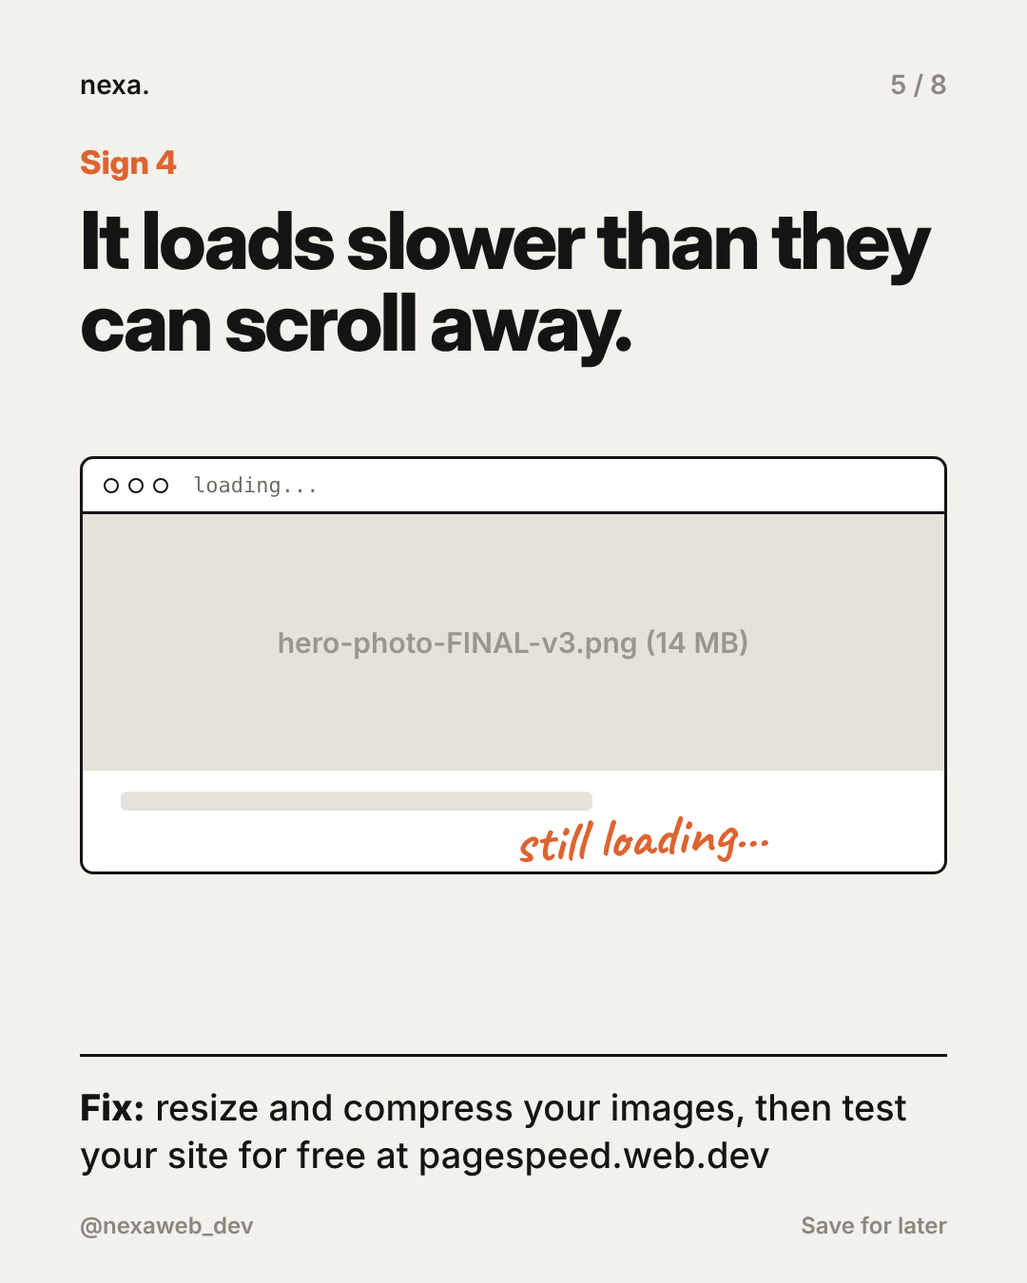
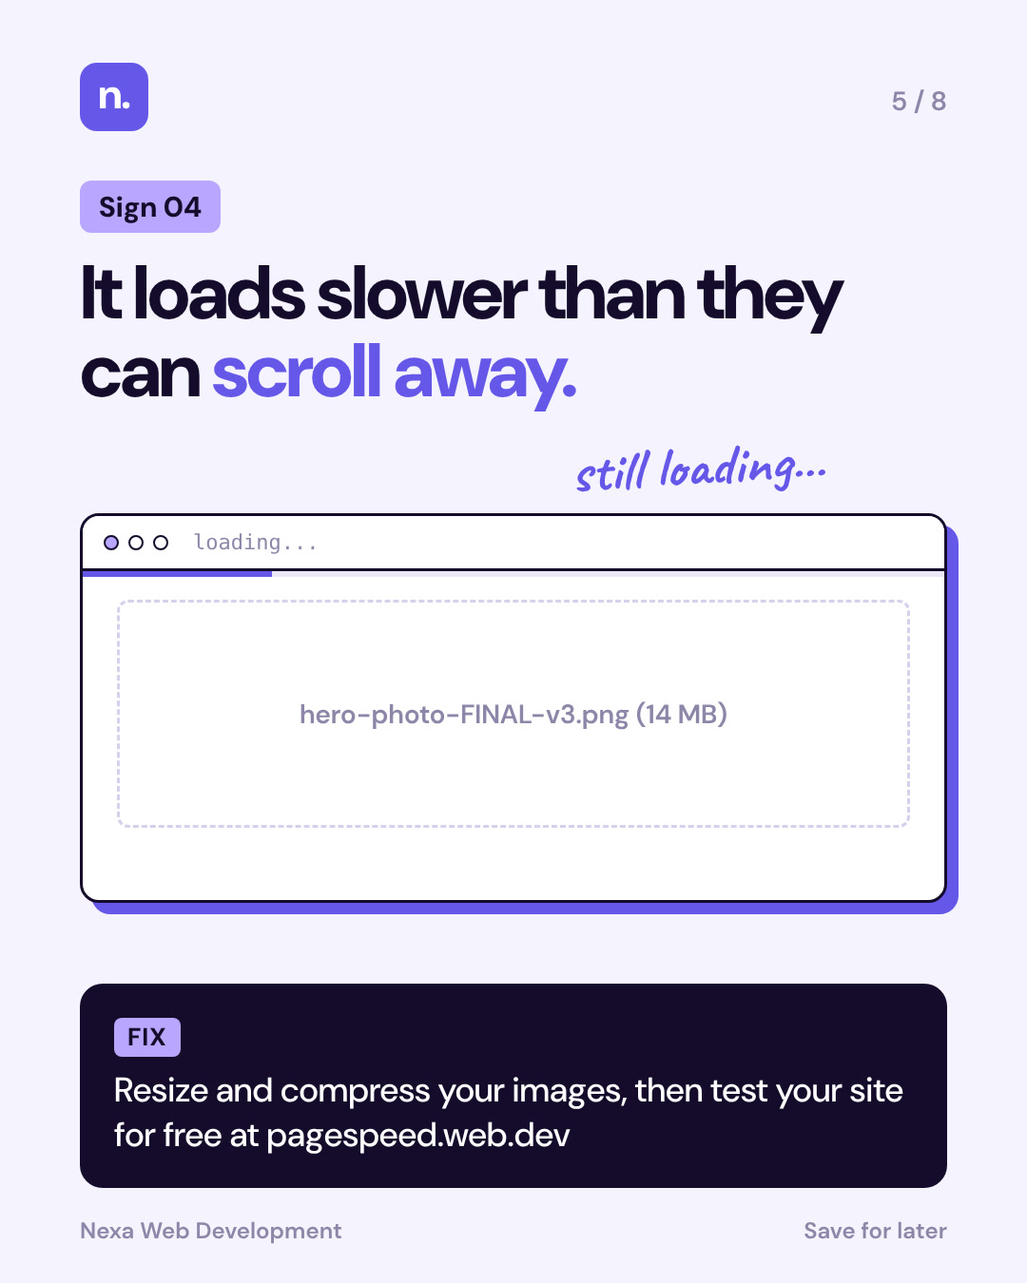
Nexa carousel v3: brand colours (indigo/lavender/navy), DM Sans, richer mockups
Claude-Session: https://claude.ai/code/session_01MAv6C5ZgnW2b7gxvkk4iYD

diff --git a/nexa/images/website-costing-customers-6-signs/src/slides.html b/nexa/images/website-costing-customers-6-signs/src/slides.html
@@ -1,137 +1,162 @@
 <!doctype html><html><head><meta charset="utf-8"><style>
 @font-face{font-family:Hand;src:url(/home/claude/reels-hosting/pipeline/fonts/Caveat.ttf)}
+@font-face{font-family:DMS;src:url("/usr/share/fonts/truetype/google-fonts/ofl/dmsans/DMSans[opsz,wght].ttf");font-weight:100 1000}
+:root{--ind:#6557E8;--lav:#B9A6FF;--navy:#150C2B;--paper:#F5F3FD;--soft:#E6E0FF;--line:#D6D0EC;--mute:#8E86A8}
 *{box-sizing:border-box;margin:0;padding:0}
-body{font-family:'Inter','Inter Display',sans-serif;color:#141414;background:#999}
-.s{position:relative;width:1080px;height:1350px;overflow:hidden;background:#F3F1EC}
-.top{position:absolute;left:84px;right:84px;top:72px;display:flex;justify-content:space-between;font-size:28px;font-weight:600;color:#141414}
-.top span:last-child{color:#8b8780}
-.num{position:absolute;left:84px;top:150px;font-family:'Inter Display';font-weight:800;font-size:34px;color:#DD6431}
-.h{position:absolute;left:84px;right:84px;font-family:'Inter Display';font-weight:800;letter-spacing:-.035em;line-height:1.02}
-.win{position:absolute;left:84px;right:84px;background:#fff;border:3px solid #141414;border-radius:14px;overflow:hidden}
-.wbar{height:58px;border-bottom:3px solid #141414;display:flex;align-items:center;padding:0 22px;gap:10px}
-.wbar i{width:16px;height:16px;border-radius:50%;border:2.5px solid #141414;display:inline-block}
-.wbar span{margin-left:16px;font-family:'DejaVu Sans Mono',monospace;font-size:22px;color:#6f6b64}
-.hand{font-family:Hand;color:#DD6431;font-weight:700;position:absolute;line-height:1}
-svg.mk{position:absolute;overflow:visible;pointer-events:none}
-.fix{position:absolute;left:84px;right:84px;bottom:110px;border-top:3px solid #141414;padding-top:28px;font-size:38px;line-height:1.32;font-weight:500}
-.fix b{font-weight:800}
-.foot{position:absolute;left:84px;right:84px;bottom:46px;display:flex;justify-content:space-between;font-size:24px;color:#8b8780;font-weight:600}
-.grey{color:#8b8780}
-.field{border:2px solid #cfcac2;border-radius:8px;padding:12px 16px;font-size:24px;color:#9a958d}
-.pill{border:2px solid #cfcac2;border-radius:8px;padding:10px 20px;font-size:26px;font-weight:600;color:#8b8780;display:inline-block}
+body{font-family:DMS,sans-serif;color:var(--navy);background:#999}
+.s{position:relative;width:1080px;height:1350px;overflow:hidden;background:var(--paper)}
+.s.dark{background:var(--navy);color:#fff}
+.logo{position:absolute;left:84px;top:66px;width:72px;height:72px;border-radius:18px;background:var(--ind);color:#fff;font-weight:800;font-size:44px;display:flex;align-items:center;justify-content:center;letter-spacing:-1px;padding-bottom:6px}
+.pg{position:absolute;right:84px;top:88px;font-size:28px;font-weight:600;color:var(--mute)}
+.dark .pg{color:#8B80B8}
+.tagl{display:inline-block;background:var(--lav);color:var(--navy);font-weight:800;font-size:30px;padding:8px 20px;border-radius:12px}
+.lbl{position:absolute;left:84px;top:190px}
+.h{position:absolute;left:84px;right:84px;font-weight:800;letter-spacing:-.035em;line-height:1.02}
+.h em{font-style:normal;color:var(--ind)}
+.dark .h em{color:var(--lav)}
+.win{position:absolute;left:84px;right:84px;background:#fff;border:3px solid var(--navy);border-radius:20px;overflow:hidden;box-shadow:12px 12px 0 var(--ind)}
+.wbar{height:58px;border-bottom:3px solid var(--navy);display:flex;align-items:center;padding:0 22px;gap:10px;background:#fff}
+.wbar i{width:16px;height:16px;border-radius:50%;border:2.5px solid var(--navy);display:inline-block}
+.wbar i:first-child{background:var(--lav)}
+.wbar span{margin-left:16px;font-family:'DejaVu Sans Mono',monospace;font-size:22px;color:var(--mute)}
+.hand{font-family:Hand;color:var(--ind);font-weight:700;position:absolute;line-height:1}
+.dark .hand{color:var(--lav)}
+svg.mk{position:absolute;overflow:visible}
+.fix{position:absolute;left:84px;right:84px;bottom:100px;background:var(--navy);color:#fff;border-radius:24px;padding:30px 36px 32px;font-size:36px;line-height:1.3;font-weight:500}
+.fix b{display:inline-block;background:var(--lav);color:var(--navy);font-weight:800;font-size:26px;padding:4px 14px;border-radius:8px;margin-bottom:12px;letter-spacing:1px}
+.foot{position:absolute;left:84px;right:84px;bottom:40px;display:flex;justify-content:space-between;font-size:24px;color:var(--mute);font-weight:600}
+.field{border:2px solid var(--line);border-radius:10px;padding:12px 16px;font-size:24px;color:var(--mute)}
+.pill{border:2px solid var(--line);border-radius:10px;padding:10px 20px;font-size:26px;font-weight:600;color:var(--mute);display:inline-block}
+.bar{height:18px;background:#ECE8F7;border-radius:6px}
+.img{background:var(--soft);border-radius:12px;position:relative;overflow:hidden}
+.img:before{content:"";position:absolute;left:12%;bottom:-30%;width:60%;height:80%;background:var(--lav);border-radius:50% 50% 0 0;opacity:.8}
+.img:after{content:"";position:absolute;right:16%;top:20%;width:46px;height:46px;border-radius:50%;background:#fff}
 </style></head><body>
 
-<div class="s" id="s1">
- <div class="top"><span>nexa.</span><span>@nexaweb_dev</span></div>
- <div class="h" style="top:260px;font-size:136px">Your website is losing you customers.</div>
- <div class="hand" style="left:90px;top:720px;font-size:96px;transform:rotate(-3deg)">and it won't tell you.</div>
- 
- <div style="position:absolute;left:84px;top:900px;font-size:44px;font-weight:500;line-height:1.35;width:820px">6 quiet signs to check today.<br><span class="grey">Most take 5 minutes to fix.</span></div>
- <div class="foot"><span>Website check</span><span>Swipe</span></div>
+<!-- 1 HOOK (dark) -->
+<div class="s dark" id="s1">
+ <div class="logo">n.</div><div class="pg">@nexaweb_dev</div>
+ <div class="h" style="top:230px;font-size:132px">Your website is losing you <em>customers.</em></div>
+ <div class="hand" style="left:90px;top:680px;font-size:92px;transform:rotate(-3deg)">and it won't tell you.</div>
+ <div class="win" style="left:430px;right:auto;width:600px;top:860px;height:330px;transform:rotate(4deg);box-shadow:12px 12px 0 var(--lav)">
+  <div class="wbar"><i></i><i></i><i></i><span>yoursite.example</span></div>
+  <div style="padding:26px 30px;color:var(--navy)"><div class="bar" style="width:60%"></div><div class="img" style="height:120px;margin-top:20px"></div><div class="bar" style="width:80%;margin-top:20px"></div></div></div>
+ <div style="position:absolute;left:84px;top:900px;font-size:40px;font-weight:600;line-height:1.35;width:330px">6 quiet signs to check today.</div>
+ <svg class="mk" style="left:84px;top:1090px" width="300" height="80"><path d="M6 40 C 80 30, 170 50, 250 38 M226 18 L 262 38 L 230 62" stroke="#B9A6FF" stroke-width="6" fill="none" stroke-linecap="round" stroke-linejoin="round"/></svg>
+ <div class="hand" style="left:90px;top:1180px;font-size:56px">swipe</div>
 </div>
 
+<!-- 2 -->
 <div class="s" id="s2">
- <div class="top"><span>nexa.</span><span>2 / 8</span></div>
- <div class="num">Sign 1</div>
- <div class="h" style="top:210px;font-size:84px">A stranger can't tell what you do in 5 seconds.</div>
- <div class="win" style="top:540px;height:420px"><div class="wbar"><i></i><i></i><i></i><span>yourplumber.example</span></div>
-  <div style="padding:40px 44px"><div style="font-size:24px;letter-spacing:3px;color:#9a958d;font-weight:700">HOME &nbsp; ABOUT &nbsp; SERVICES &nbsp; CONTACT</div>
-  <div style="font-family:'Inter Display';font-weight:700;font-size:70px;margin-top:44px;letter-spacing:-.02em">Welcome to our website!</div>
-  <div style="font-size:28px;color:#9a958d;margin-top:18px">We are passionate about excellence and quality.</div></div></div>
- <svg class="mk" id="c2" style="left:100px;top:660px" width="860" height="160"></svg>
- <div class="hand" style="left:470px;top:975px;font-size:62px;transform:rotate(-4deg)">ok but what do you do?</div>
- <div class="fix"><b>Fix:</b> say what you do, who it's for and where. "Blocked drain? Fixed today in Parramatta."</div>
- <div class="foot"><span>@nexaweb_dev</span><span>Save for later</span></div>
+ <div class="logo">n.</div><div class="pg">2 / 8</div>
+ <div class="lbl"><span class="tagl">Sign 01</span></div>
+ <div class="h" style="top:268px;font-size:80px">A stranger can't tell <em>what you do</em> in 5 seconds.</div>
+ <div class="win" style="top:560px;height:390px"><div class="wbar"><i></i><i></i><i></i><span>yourplumber.example</span></div>
+  <div style="padding:30px 40px;display:flex;gap:30px"><div style="flex:1"><div style="font-size:20px;letter-spacing:3px;color:var(--mute);font-weight:700">HOME &nbsp; ABOUT &nbsp; CONTACT</div>
+  <div style="font-weight:800;font-size:56px;margin-top:30px;letter-spacing:-.02em;line-height:1.05">Welcome to our website!</div>
+  <div style="font-size:24px;color:var(--mute);margin-top:14px">We are passionate about excellence.</div></div>
+  <div class="img" style="width:250px;height:250px"></div></div></div>
+ <svg class="mk" id="c2" style="left:96px;top:676px" width="590" height="170"></svg>
+ <div class="hand" style="left:440px;top:478px;font-size:56px;white-space:nowrap;transform:rotate(-2deg)">ok... but what do you do?</div>
+ <div class="fix"><b>FIX</b><br>Say what you do, who it's for and where. "Blocked drain? Fixed today in Parramatta."</div>
+ <div class="foot"><span>Nexa Web Development</span><span>Save for later</span></div>
 </div>
 
+<!-- 3 -->
 <div class="s" id="s3">
- <div class="top"><span>nexa.</span><span>3 / 8</span></div>
- <div class="num">Sign 2</div>
- <div class="h" style="top:210px;font-size:84px">Your phone number can't be tapped on mobile.</div>
- <div class="win" style="left:120px;right:auto;width:480px;top:520px;height:470px;border-radius:44px">
-  <div style="padding:60px 40px"><div style="height:20px;width:70%;background:#e6e2db;border-radius:6px"></div><div style="height:20px;width:90%;background:#e6e2db;border-radius:6px;margin-top:14px"></div>
-  <div style="font-size:30px;font-weight:600;margin-top:46px">Call us today!</div>
-  <div style="font-size:40px;font-weight:500;margin-top:8px;color:#6f6b64">02 5550 4321</div>
-  <div style="height:20px;width:80%;background:#e6e2db;border-radius:6px;margin-top:46px"></div><div style="height:20px;width:60%;background:#e6e2db;border-radius:6px;margin-top:14px"></div></div></div>
- <svg class="mk" id="c3" style="left:125px;top:722px" width="400" height="90"></svg>
- <div class="hand" style="left:640px;top:690px;font-size:60px;transform:rotate(-4deg);width:380px">&larr; not a link.<br>copy, paste,<br>give up</div>
- <div class="fix"><b>Fix:</b> make every number a tap to call link, plus a call button that stays on screen.</div>
- <div class="foot"><span>@nexaweb_dev</span><span>Save for later</span></div>
+ <div class="logo">n.</div><div class="pg">3 / 8</div>
+ <div class="lbl"><span class="tagl">Sign 02</span></div>
+ <div class="h" style="top:268px;font-size:80px">Your phone number <em>can't be tapped</em> on mobile.</div>
+ <div class="win" style="left:130px;right:auto;width:440px;top:530px;height:440px;border-radius:48px">
+  <div style="padding:46px 36px"><div class="bar" style="width:55%;margin:0 auto 26px;height:12px"></div><div class="img" style="height:110px"></div>
+  <div style="font-size:28px;font-weight:700;margin-top:26px">Call us today!</div>
+  <div style="font-size:38px;font-weight:500;margin-top:6px;color:#5d5675">02 5550 4321</div>
+  <div class="bar" style="width:80%;margin-top:26px"></div></div></div>
+ <svg class="mk" id="c3" style="left:140px;top:782px" width="380" height="84"></svg>
+ <div class="hand" style="left:640px;top:740px;font-size:58px;transform:rotate(-4deg);width:380px">&larr; not a link.<br>copy, paste,<br>give up</div>
+ <div class="fix"><b>FIX</b><br>Make every number a tap to call link, plus a call button that stays on screen.</div>
+ <div class="foot"><span>Nexa Web Development</span><span>Save for later</span></div>
 </div>
 
+<!-- 4 -->
 <div class="s" id="s4">
- <div class="top"><span>nexa.</span><span>4 / 8</span></div>
- <div class="num">Sign 3</div>
- <div class="h" style="top:210px;font-size:84px">Your contact form asks for their life story.</div>
- <div class="win" style="top:540px;height:420px"><div class="wbar"><i></i><i></i><i></i><span>Get in touch</span></div>
-  <div style="padding:30px 40px;display:grid;grid-template-columns:1fr 1fr;gap:14px">
+ <div class="logo">n.</div><div class="pg">4 / 8</div>
+ <div class="lbl"><span class="tagl">Sign 03</span></div>
+ <div class="h" style="top:268px;font-size:80px">Your contact form asks for their <em>life story.</em></div>
+ <div class="win" style="top:540px;height:410px"><div class="wbar"><i></i><i></i><i></i><span>Get in touch</span></div>
+  <div style="padding:28px 36px;display:grid;grid-template-columns:1fr 1fr;gap:14px">
   <div class="field">Name *</div><div class="field">Company *</div><div class="field">Job title *</div><div class="field">Budget *</div>
   <div class="field">Street address *</div><div class="field">Postcode *</div><div class="field">How did you hear? *</div><div class="field">Fax *</div></div></div>
- <svg class="mk" id="c4" style="left:535px;top:824px" width="420" height="84"></svg>
- <div class="hand" style="left:760px;top:965px;font-size:64px;transform:rotate(-3deg)">fax??</div>
- <div class="fix"><b>Fix:</b> ask only what you need to reply. Name, phone or email, message. Get the rest on the call.</div>
- <div class="foot"><span>@nexaweb_dev</span><span>Save for later</span></div>
+ <svg class="mk" id="c4" style="left:535px;top:822px" width="420" height="84"></svg>
+ <div class="hand" style="left:770px;top:452px;font-size:64px;transform:rotate(-5deg)">fax??</div>
+ <div class="fix"><b>FIX</b><br>Ask only what you need to reply. Name, phone or email, message. Get the rest on the call.</div>
+ <div class="foot"><span>Nexa Web Development</span><span>Save for later</span></div>
 </div>
 
+<!-- 5 -->
 <div class="s" id="s5">
- <div class="top"><span>nexa.</span><span>5 / 8</span></div>
- <div class="num">Sign 4</div>
- <div class="h" style="top:210px;font-size:84px">It loads slower than they can scroll away.</div>
- <div class="win" style="top:480px;height:440px"><div class="wbar"><i></i><i></i><i></i><span>loading...</span></div>
-  <div style="height:270px;background:#e6e2db;display:flex;align-items:center;justify-content:center;font-size:30px;color:#9a958d;font-weight:600">hero-photo-FINAL-v3.png (14 MB)</div>
-  <div style="padding:22px 40px"><div style="height:20px;width:60%;background:#e6e2db;border-radius:6px"></div></div></div>
- <div class="hand" style="left:540px;top:850px;font-size:60px;transform:rotate(-3deg)">still loading...</div>
- <div class="fix"><b>Fix:</b> resize and compress your images, then test your site for free at pagespeed.web.dev</div>
- <div class="foot"><span>@nexaweb_dev</span><span>Save for later</span></div>
+ <div class="logo">n.</div><div class="pg">5 / 8</div>
+ <div class="lbl"><span class="tagl">Sign 04</span></div>
+ <div class="h" style="top:268px;font-size:80px">It loads slower than they can <em>scroll away.</em></div>
+ <div class="win" style="top:540px;height:410px"><div class="wbar"><i></i><i></i><i></i><span>loading...</span></div>
+  <div style="height:6px;background:#ECE8F7"><div style="width:22%;height:100%;background:var(--ind)"></div></div>
+  <div style="height:240px;margin:24px 36px 0;border:3px dashed var(--line);border-radius:12px;display:flex;align-items:center;justify-content:center;font-size:28px;color:var(--mute);font-weight:600">hero-photo-FINAL-v3.png (14 MB)</div></div>
+ <div class="hand" style="left:600px;top:460px;font-size:60px;transform:rotate(-3deg)">still loading...</div>
+ <div class="fix"><b>FIX</b><br>Resize and compress your images, then test your site for free at pagespeed.web.dev</div>
+ <div class="foot"><span>Nexa Web Development</span><span>Save for later</span></div>
 </div>
 
+<!-- 6 -->
 <div class="s" id="s6">
- <div class="top"><span>nexa.</span><span>6 / 8</span></div>
- <div class="num">Sign 5</div>
- <div class="h" style="top:210px;font-size:84px">They have to hunt for the next step.</div>
- <div class="win" style="top:480px;height:420px"><div class="wbar"><i></i><i></i><i></i><span>yourbusiness.example</span></div>
-  <div style="padding:40px 44px;display:flex;flex-wrap:wrap;gap:16px">
-  <span class="pill">Learn more</span><span class="pill">Our story</span><span class="pill">Explore</span><span class="pill">Discover</span><span class="pill">Resources</span><span class="pill">Gallery</span><span class="pill">Find out more</span><span class="pill">Blog</span></div></div>
- <svg class="mk" id="c6" style="left:100px;top:540px" width="880" height="250"></svg>
- <div class="hand" style="left:520px;top:830px;font-size:58px;transform:rotate(-3deg)">so... how do I book?</div>
- <div class="fix"><b>Fix:</b> one main button ("Get a quote") near the top, repeated as they scroll. Same words every time.</div>
- <div class="foot"><span>@nexaweb_dev</span><span>Save for later</span></div>
+ <div class="logo">n.</div><div class="pg">6 / 8</div>
+ <div class="lbl"><span class="tagl">Sign 05</span></div>
+ <div class="h" style="top:268px;font-size:80px">They have to <em>hunt</em> for the next step.</div>
+ <div class="win" style="top:480px;height:440px"><div class="wbar"><i></i><i></i><i></i><span>yourbusiness.example</span></div>
+  <div style="padding:34px 40px;display:flex;flex-wrap:wrap;gap:16px">
+  <span class="pill">Learn more</span><span class="pill">Our story</span><span class="pill">Explore</span><span class="pill">Discover</span><span class="pill">Resources</span><span class="pill">Gallery</span><span class="pill">Find out more</span><span class="pill">Blog</span></div>
+  <div class="img" style="height:120px;margin:6px 40px 0"></div></div>
+ <svg class="mk" id="c6" style="left:88px;top:540px" width="904" height="200"></svg>
+ <div class="hand" style="left:520px;top:940px;font-size:58px;transform:rotate(-3deg)">so... how do I book?</div>
+ <div class="fix"><b>FIX</b><br>One main button ("Get a quote") near the top, repeated as they scroll. Same words every time.</div>
+ <div class="foot"><span>Nexa Web Development</span><span>Save for later</span></div>
 </div>
 
+<!-- 7 -->
 <div class="s" id="s7">
- <div class="top"><span>nexa.</span><span>7 / 8</span></div>
- <div class="num">Sign 6</div>
- <div class="h" style="top:210px;font-size:84px">Your site looks like nobody's home.</div>
+ <div class="logo">n.</div><div class="pg">7 / 8</div>
+ <div class="lbl"><span class="tagl">Sign 06</span></div>
+ <div class="h" style="top:268px;font-size:80px">Your site looks like <em>nobody's home.</em></div>
  <div class="win" style="top:480px;height:420px"><div class="wbar"><i></i><i></i><i></i><span>yourbusiness.example/news</span></div>
-  <div style="padding:36px 44px"><div style="font-size:26px;color:#9a958d;font-weight:600">Posted March 2019</div>
-  <div style="font-size:44px;font-weight:700;margin-top:10px">Exciting things coming soon!</div>
-  <div style="height:2px;background:#e6e2db;margin:60px 0 24px"></div>
-  <div style="font-size:24px;color:#9a958d">© 2019 Example Co &nbsp;·&nbsp; Opening hours: TBC</div></div></div>
- <svg class="mk" id="c7" style="left:100px;top:590px" width="720" height="100"></svg>
- <div class="hand" style="left:560px;top:820px;font-size:58px;transform:rotate(-3deg)">are they still open?</div>
- <div class="fix"><b>Fix:</b> update the footer year, hours and old posts, or delete them. Stale looks closed.</div>
- <div class="foot"><span>@nexaweb_dev</span><span>Save for later</span></div>
+  <div style="padding:34px 40px"><div style="font-size:24px;color:var(--mute);font-weight:600">Posted March 2019</div>
+  <div style="font-size:44px;font-weight:800;margin-top:8px;letter-spacing:-.01em">Exciting things coming soon!</div>
+  <div class="bar" style="width:85%;margin-top:22px"></div><div class="bar" style="width:60%;margin-top:12px"></div>
+  <div style="height:2px;background:#ECE8F7;margin:40px 0 20px"></div>
+  <div style="font-size:24px;color:var(--mute)">© 2019 Example Co &nbsp;·&nbsp; Opening hours: TBC</div></div></div>
+ <svg class="mk" id="c7" style="left:100px;top:586px" width="720" height="100"></svg>
+ <div class="hand" style="left:540px;top:930px;font-size:58px;transform:rotate(-3deg)">are they still open?</div>
+ <div class="fix"><b>FIX</b><br>Update the footer year, hours and old posts, or delete them. Stale looks closed.</div>
+ <div class="foot"><span>Nexa Web Development</span><span>Save for later</span></div>
 </div>
 
-<div class="s" id="s8">
- <div class="top"><span>nexa.</span><span>8 / 8</span></div>
- <div class="h" style="top:170px;font-size:92px">How many did your site fail?</div>
- <div style="position:absolute;left:84px;right:84px;top:420px;font-size:42px;font-weight:500;line-height:1">
-  <div style="border-top:3px solid #141414;padding:26px 0;display:flex;gap:26px"><span class="grey">1</span>Clear "what we do" headline</div>
-  <div style="border-top:2px solid #cfcac2;padding:26px 0;display:flex;gap:26px"><span class="grey">2</span>Tap to call number</div>
-  <div style="border-top:2px solid #cfcac2;padding:26px 0;display:flex;gap:26px"><span class="grey">3</span>Short contact form</div>
-  <div style="border-top:2px solid #cfcac2;padding:26px 0;display:flex;gap:26px"><span class="grey">4</span>Loads fast</div>
-  <div style="border-top:2px solid #cfcac2;padding:26px 0;display:flex;gap:26px"><span class="grey">5</span>One obvious button</div>
-  <div style="border-top:2px solid #cfcac2;border-bottom:3px solid #141414;padding:26px 0;display:flex;gap:26px"><span class="grey">6</span>Nothing out of date</div></div>
- <div class="hand" style="left:84px;top:1060px;font-size:72px;transform:rotate(-2deg)">save this, check yours tonight</div>
- <div style="position:absolute;left:84px;top:1170px;font-size:38px;font-weight:700">Follow @nexaweb_dev for more.</div>
+<!-- 8 CTA (dark) -->
+<div class="s dark" id="s8">
+ <div class="logo">n.</div><div class="pg">8 / 8</div>
+ <div class="h" style="top:200px;font-size:92px">How many did your site <em>fail?</em></div>
+ <div style="position:absolute;left:84px;right:84px;top:440px;font-size:40px;font-weight:600">
+  <div style="display:flex;align-items:center;gap:24px;padding:20px 0;border-bottom:2px solid #2E2450"><span style="width:52px;height:52px;border-radius:14px;border:3px solid var(--lav);display:inline-block"></span>Clear "what we do" headline</div>
+  <div style="display:flex;align-items:center;gap:24px;padding:20px 0;border-bottom:2px solid #2E2450"><span style="width:52px;height:52px;border-radius:14px;border:3px solid var(--lav);display:inline-block"></span>Tap to call number</div>
+  <div style="display:flex;align-items:center;gap:24px;padding:20px 0;border-bottom:2px solid #2E2450"><span style="width:52px;height:52px;border-radius:14px;border:3px solid var(--lav);display:inline-block"></span>Short contact form</div>
+  <div style="display:flex;align-items:center;gap:24px;padding:20px 0;border-bottom:2px solid #2E2450"><span style="width:52px;height:52px;border-radius:14px;border:3px solid var(--lav);display:inline-block"></span>Loads fast</div>
+  <div style="display:flex;align-items:center;gap:24px;padding:20px 0;border-bottom:2px solid #2E2450"><span style="width:52px;height:52px;border-radius:14px;border:3px solid var(--lav);display:inline-block"></span>One obvious button</div>
+  <div style="display:flex;align-items:center;gap:24px;padding:20px 0"><span style="width:52px;height:52px;border-radius:14px;border:3px solid var(--lav);display:inline-block"></span>Nothing out of date</div></div>
+ <div class="hand" style="left:84px;top:1040px;font-size:70px;transform:rotate(-2deg)">save this, check yours tonight</div>
+ <div style="position:absolute;left:84px;top:1150px;display:inline-block;background:var(--lav);color:var(--navy);font-weight:800;font-size:40px;padding:16px 30px;border-radius:14px">Follow @nexaweb_dev for more</div>
 </div>
 
 <script>
-// hand-drawn marker loops (deterministic wobble)
-function loop(id,w,h,rot){const el=document.getElementById(id);let r=1;const rnd=()=>{r=(r*9301+49297)%233280;return r/233280};
+function loop(id,w,h,rot,col){const el=document.getElementById(id);let r=1;const rnd=()=>{r=(r*9301+49297)%233280;return r/233280};
 let d='',cx=w/2,cy=h/2;for(let i=0;i<=56;i++){const a=-1.9+i/50*Math.PI*2;const k=1+(rnd()-.5)*.05+(i>50?.06:0);const x=cx+Math.cos(a)*(w/2-8)*k,y=cy+Math.sin(a)*(h/2-8)*k;d+=(i?'L':'M')+x.toFixed(1)+' '+y.toFixed(1)}
-el.innerHTML=`<path d="${d}" stroke="#DD6431" stroke-width="6" fill="none" stroke-linecap="round" stroke-linejoin="round" transform="rotate(${rot} ${cx} ${cy})"/>`}
-loop('c2',860,160,-1.5);loop('c3',400,90,2);loop("c4",420,84,-2);loop('c6',880,250,1);loop("c7",720,100,-1);
+el.innerHTML=`<path d="${d}" stroke="${col||'#6557E8'}" stroke-width="6" fill="none" stroke-linecap="round" stroke-linejoin="round" transform="rotate(${rot} ${cx} ${cy})"/>`}
+loop("c2",590,170,-1.5);loop('c3',380,84,2);loop('c4',420,84,-2);loop('c6',904,200,1);loop('c7',720,100,-1);
 </script>
 </body></html>

diff --git a/nexa/NOTES.md b/nexa/NOTES.md
@@ -5,3 +5,7 @@
   flat off-white background, black Inter headlines, simple wireframe mockups with black outlines,
   hand-drawn orange marker circles and handwritten notes (pipeline/fonts/Caveat.ttf), plain "Fix:" text. No gradients, glows, dot grids.
 - 2026-11-20 (Jayden): no em dashes or en dashes (— –) anywhere: slides, captions, on-screen text. Use full stops or commas.
+- 2026-11-20 (Jayden): use Nexa brand colours, not orange. Brand (from ads/nexa-sprint-v4): indigo #6557E8 (logo "n." badge),
+  lavender #B9A6FF (highlight word / label boxes), deep navy #150C2B (dark backgrounds/text). Headline font: DM Sans ExtraBold.
+  Approved-direction carousel template: nexa/images/website-costing-customers-6-signs/src/slides.html (v3). He liked the
+  hand-annotated wireframe idea and asked for it to be more visually appealing.
